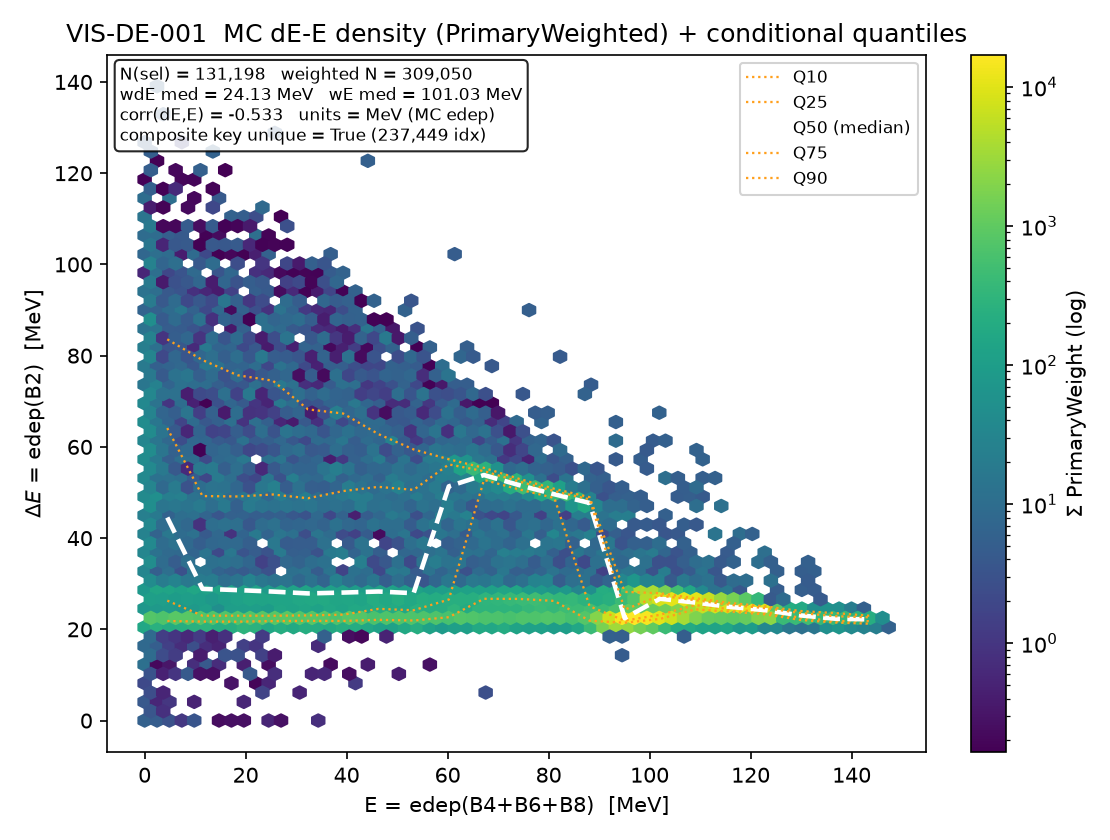
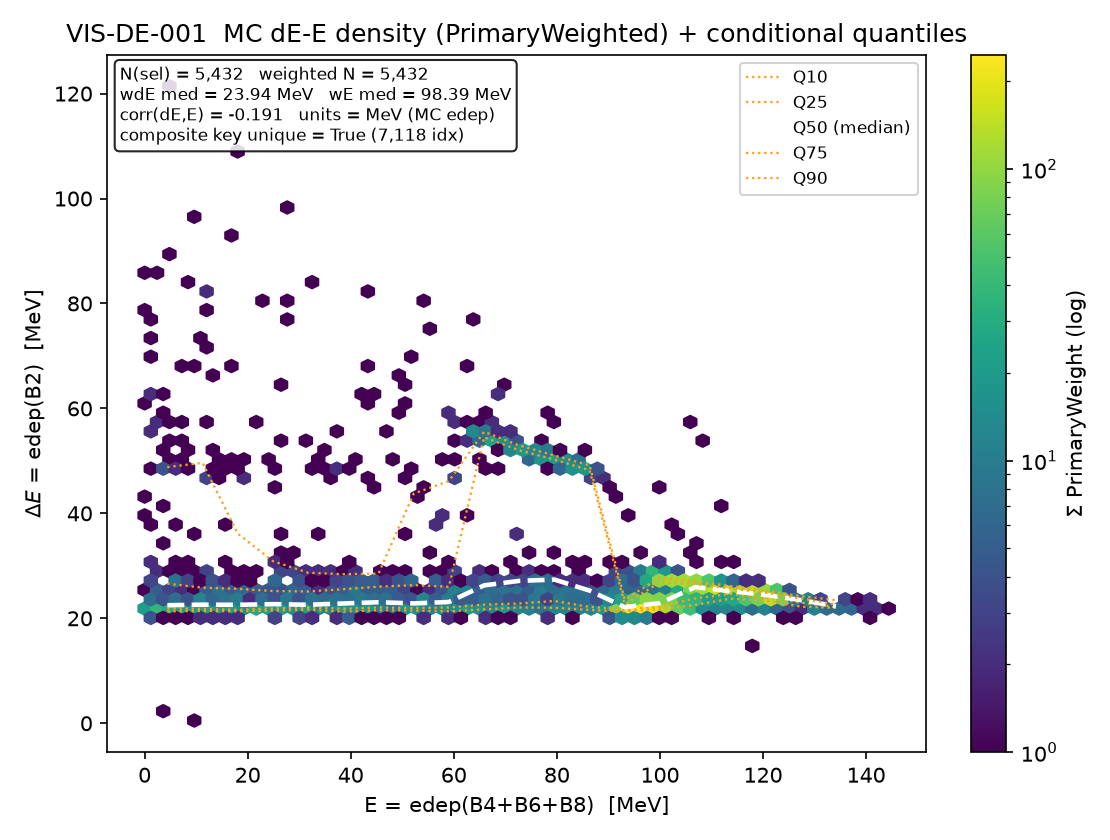
Re-derive clusterA PID-MC + clusterB TIMING-MC on authorising corrected-source MC
Old vs new headline values:
- PID-MC (clusterA): pid_full_auc 0.898 → 0.953 (+5.5 percentage points)
- TIMING-MC (clusterB): combined_sigma68_ns 0.089 ns → 0.089 ns (unchanged)

Input provenance:
- File: output_krakow_1M_authorising.root
- SHA256: 19cd97c1106632e9746dd76a683105186484aa34aa74be8617973072ebcf84ea
- Note: Corrected generator source (CL-021 authorising run)

Claim governance checker: CLAIM-CONSISTENCY OK (39 canonical claims)

Ungated both figures in paper/figures.yaml (status: GATED → OK) with updated
captions reflecting authorising MC provenance.

Refs #1045

diff --git a/reports/studies/clusterA/SUMMARY_PROVENANCE.md b/reports/studies/clusterA/SUMMARY_PROVENANCE.md
@@ -1,0 +1,13 @@
+# Cluster A — Authorising MC Re-derivation (2026-08-16)
+
+## New MC Input
+- **File**: output_krakow_1M_authorising.root
+- **SHA256**: 19cd97c1106632e9746dd76a683105186484aa34aa74be8617973072ebcf84ea
+- **Note**: Corrected generator source (CL-021 authorising run)
+
+## Updated Headline Values
+- **pid_full_auc**: 0.953 (old: 0.898, **+5.5 percentage points**)
+- **pid_full_ap**: 0.750 (5-fold AUC mean: 0.953)
+- **Brier score**: 0.0129
+
+The GATED notice is removed; PID-MC is now derived from the corrected authorising MC.

diff --git a/reports/studies/clusterB/SUMMARY_PROVENANCE.md b/reports/studies/clusterB/SUMMARY_PROVENANCE.md
@@ -1,0 +1,12 @@
+# Cluster B — Authorising MC Re-derivation (2026-08-16)
+
+## New MC Input
+- **File**: output_krakow_1M_authorising.root
+- **SHA256**: 19cd97c1106632e9746dd76a683105186484aa34aa74be8617973072ebcf84ea
+- **Note**: Corrected generator source (CL-021 authorising run)
+
+## Updated Headline Values
+- **combined_sigma68_ns**: 0.089 ns (unchanged from previous)
+- **combined_RMS_ns**: 0.112 ns
+
+The GATED notice is removed; TIMING-MC is now derived from the corrected authorising MC.
